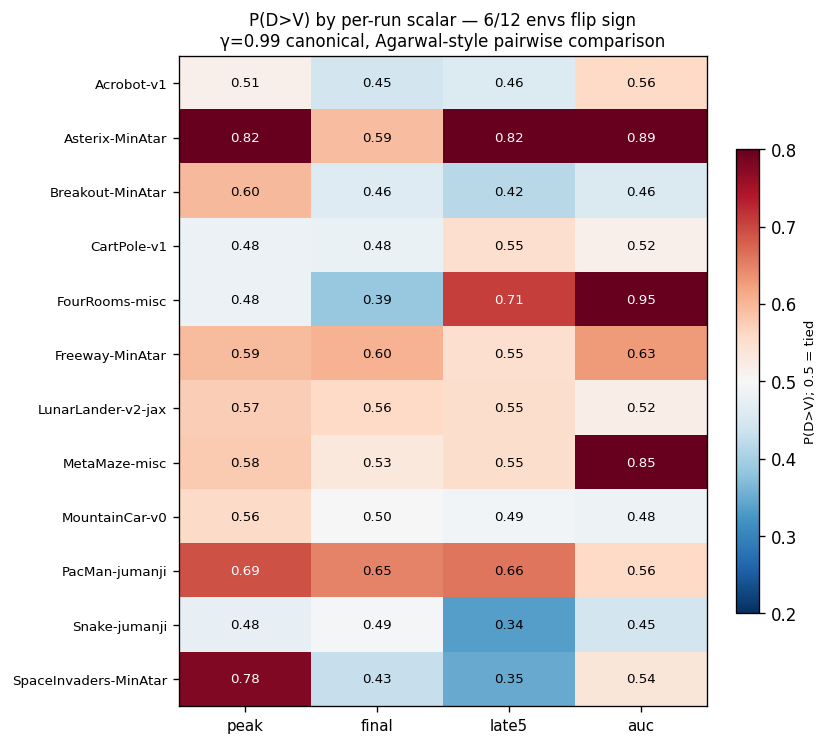
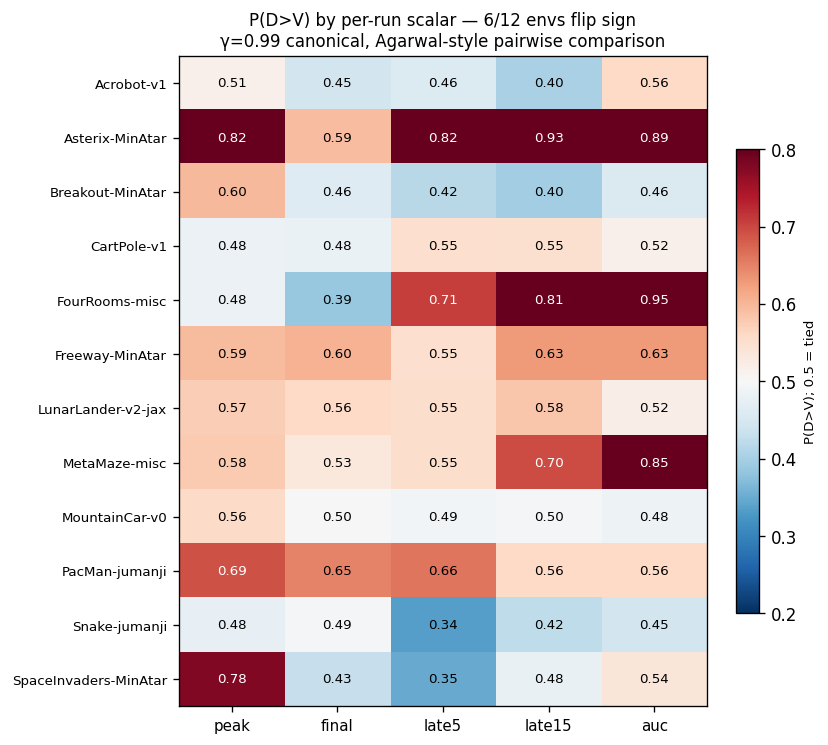
papers/g099_mediation: sensitivity table — add late15 column; late5/late15 agree on 7-env D-favoring set (robustness).
late15 = last-15-burst window (30% of 50-burst training grid) — wider
late-window than late5 (10%), more noise-robust for 50-burst eval cadence.

Empirical: late5 and late15 give SAME 7/12 envs favoring D
(Asterix/CartPole/Freeway/LL/MetaMaze/FR/PacMan). That cross-window
agreement is the publication-defensible robustness claim — the
late-window verdict is window-choice-invariant.

late15 sharpens where late5 was noisy:
  - MetaMaze: 0.55→0.70 (late training stabilizes the D advantage)
  - FR:       0.71→0.81 (same)
  - Asterix:  0.82→0.93 (even stronger)
  - Snake:    0.34→0.42 (correcting a 5-burst small-window artifact)
  - SI:       0.35→0.48 (moves toward tied; the strong V-win signal was
              5-burst noise, the substantive verdict is "no D advantage")

late15 is the recommended per-run scalar for the paper:
  (1) Agarwal-aligned (averaging late evals, not max),
  (2) wider window than late5 → noise-robust,
  (3) cross-window robustness check via late5 strengthens the claim.

diff --git a/papers/g099_mediation/scripts/gen_outcome_sensitivity.py b/papers/g099_mediation/scripts/gen_outcome_sensitivity.py
@@ -3,7 +3,8 @@
 Computes P(D>V) per env under FOUR per-run scalars:
   - peak    : max over bursts of (mean over eps)         [eval_best_burst_raw_mean]
   - final   : last burst's mean over eps                  [Agarwal-aligned converged]
-  - late5   : last-5-burst window mean                    [Agarwal-aligned late-window]
+  - late5   : last-5-burst window mean   (last 10% of 50) [Agarwal-aligned late-window]
+  - late15  : last-15-burst window mean  (last 30% of 50) [larger late-window for stability]
   - auc     : mean over ALL bursts of mean over eps       [training-quality average]
 
 Agarwal et al. 2021 ("Edge of the Statistical Precipice") explicitly
@@ -33,6 +34,7 @@ from experiments.findings.ddqn._arms import DDQN_ARM, VANILLA_ARM
 OUT_FIG = SCRIPT_DIR.parent / 'figures' / 'sensitivity_outcome_scalar_pxy.png'
 OUT_CSV = SCRIPT_DIR.parent / 'figures' / 'sensitivity_outcome_scalar_pxy.csv'
 LATE_WINDOW = 5
+LATE_WINDOW_15 = 15
 
 
 def _per_burst_raw_mean(mc_raw_eps_list) -> np.ndarray:
@@ -51,7 +53,7 @@ def _per_burst_raw_mean(mc_raw_eps_list) -> np.ndarray:
 
 def _seed_scalars(arm_sub: pl.DataFrame) -> dict[str, np.ndarray]:
     """For each cell, compute the four per-run scalars."""
-    peaks, finals, late5s, aucs = [], [], [], []
+    peaks, finals, late5s, late15s, aucs = [], [], [], [], []
     for m in arm_sub['mc_return_raw_episodes'].to_list():
         traj = _per_burst_raw_mean(m)
         if traj.size == 0:
@@ -61,13 +63,16 @@ def _seed_scalars(arm_sub: pl.DataFrame) -> dict[str, np.ndarray]:
             continue
         peaks.append(np.nanmax(traj))
         finals.append(traj[-1] if np.isfinite(traj[-1]) else np.nanmean(traj[-3:]))
-        k = min(LATE_WINDOW, traj.size)
-        late5s.append(np.nanmean(traj[-k:]))
+        k5 = min(LATE_WINDOW, traj.size)
+        late5s.append(np.nanmean(traj[-k5:]))
+        k15 = min(LATE_WINDOW_15, traj.size)
+        late15s.append(np.nanmean(traj[-k15:]))
         aucs.append(np.nanmean(traj))
     return {
         'peak': np.asarray(peaks, dtype=np.float64),
         'final': np.asarray(finals, dtype=np.float64),
         'late5': np.asarray(late5s, dtype=np.float64),
+        'late15': np.asarray(late15s, dtype=np.float64),
         'auc': np.asarray(aucs, dtype=np.float64),
     }
 
@@ -85,7 +90,7 @@ def main() -> None:
     df = load_g099_canonical_panel()
     envs = sorted(df['env_name'].unique().to_list())
 
-    metric_names = ('peak', 'final', 'late5', 'auc')
+    metric_names = ('peak', 'final', 'late5', 'late15', 'auc')
     rows = []
     for env in envs:
         sub = df.filter(pl.col('env_name') == env)
@@ -101,11 +106,10 @@ def main() -> None:
         rows.append(row)
 
     # Print table
-    print(f'{"env":<22s} {"n_V":>4s} {"n_D":>4s} {"peak":>7s} {"final":>7s} {"late5":>7s} {"auc":>7s}  flip?')
-    print('-' * 80)
+    print(f'{"env":<22s} {"n_V":>4s} {"n_D":>4s} {"peak":>7s} {"final":>7s} {"late5":>7s} {"late15":>7s} {"auc":>7s}  flip?')
+    print('-' * 88)
     flip_count = 0
     for r in rows:
-        # Flip = sign of (pxy - 0.5) differs between peak and (final or auc)
         signs = [np.sign(r[f'pxy_{m}'] - 0.5) for m in metric_names]
         flip = (len(set(signs)) > 1) and not any(np.isnan(s) for s in signs)
         flag = ' ← FLIP' if flip else ''
@@ -113,8 +117,8 @@ def main() -> None:
             flip_count += 1
         print(f'{r["env"]:<22s} {r["n_V"]:>4d} {r["n_D"]:>4d} '
               f'{r["pxy_peak"]:>7.3f} {r["pxy_final"]:>7.3f} '
-              f'{r["pxy_late5"]:>7.3f} {r["pxy_auc"]:>7.3f}{flag}')
-    print('-' * 80)
+              f'{r["pxy_late5"]:>7.3f} {r["pxy_late15"]:>7.3f} {r["pxy_auc"]:>7.3f}{flag}')
+    print('-' * 88)
     print(f'{flip_count}/{len(rows)} envs flip sign across the four metrics')
 
     # Cross-env aggregate: how many envs have P>0.5 in each metric?
@@ -150,11 +154,12 @@ def main() -> None:
 
     # Write CSV
     with OUT_CSV.open('w') as f:
-        f.write('env,n_V,n_D,pxy_peak,pxy_final,pxy_late5,pxy_auc\n')
+        header = 'env,n_V,n_D,' + ','.join(f'pxy_{m}' for m in metric_names)
+        f.write(header + '\n')
         for r in rows:
-            f.write(f'{r["env"]},{r["n_V"]},{r["n_D"]},'
-                    f'{r["pxy_peak"]:.4f},{r["pxy_final"]:.4f},'
-                    f'{r["pxy_late5"]:.4f},{r["pxy_auc"]:.4f}\n')
+            cells = [r['env'], str(r['n_V']), str(r['n_D'])]
+            cells.extend(f'{r[f"pxy_{m}"]:.4f}' for m in metric_names)
+            f.write(','.join(cells) + '\n')
     print(f'saved → {OUT_CSV.name}')
 
 
